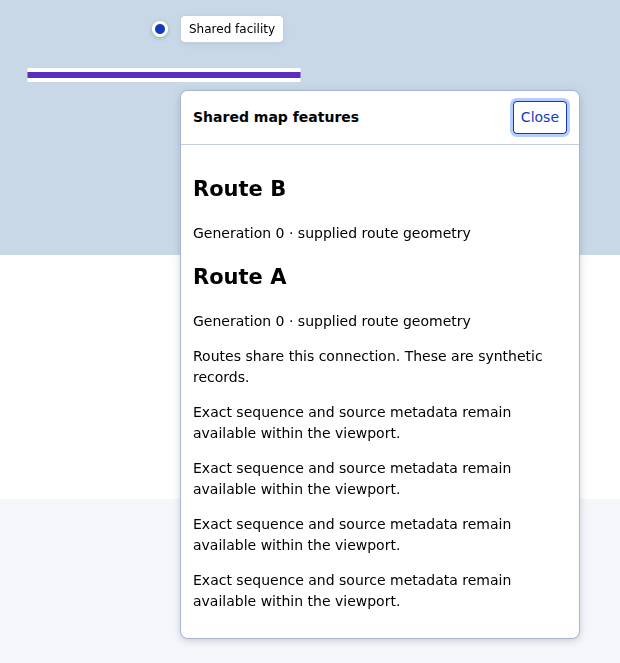
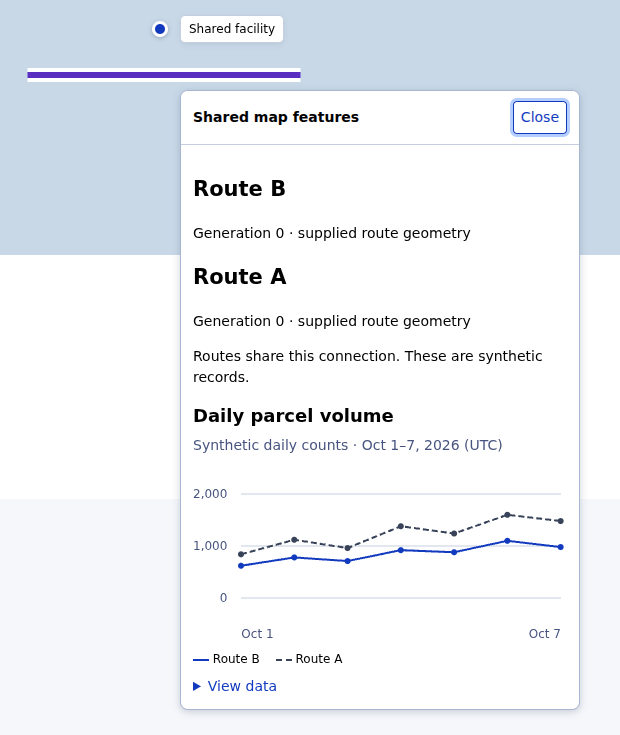
Exercise map inspector spacing with a real parcel-volume chart

diff --git a/scripts/preview-maps/rich-inspection.tsx b/scripts/preview-maps/rich-inspection.tsx
@@ -17,6 +17,17 @@ import { ThemeProvider } from "../../easy-ui-react/src/Theme";
 import { PillButton } from "../../easy-ui-react/src/Pill";
 import { Button } from "../../easy-ui-react/src/Button";
 import { Text } from "../../easy-ui-react/src/Text";
+import { CompactTimeSeries } from "../../easy-ui-react/src/CompactTimeSeries";
+const routeVolumes: Record<string, number[]> = {
+  a: [840, 1120, 960, 1380, 1240, 1600, 1480],
+  b: [620, 780, 710, 920, 880, 1100, 980],
+};
+const formatDate = (time: number) =>
+  new Intl.DateTimeFormat("en-US", {
+    month: "short",
+    day: "numeric",
+    timeZone: "UTC",
+  }).format(time);
 const style: StyleSpecification = {
   version: 8,
   sources: {},
@@ -150,12 +161,28 @@ function Fixture() {
                   <p>
                     Routes share this connection. These are synthetic records.
                   </p>
-                  {Array.from({ length: 4 }, (_, i) => (
-                    <p key={i}>
-                      Exact sequence and source metadata remain available within
-                      the viewport.
-                    </p>
-                  ))}
+                  <CompactTimeSeries
+                    label="Daily parcel volume"
+                    description="Synthetic daily counts · Oct 1–7, 2026 (UTC)"
+                    series={selections.map(({ overlay }) => ({
+                      id: overlay.id,
+                      label: overlay.label ?? overlay.id,
+                      points: (routeVolumes[overlay.id] ?? []).map(
+                        (value, index) => ({
+                          time: Date.UTC(2026, 9, index + 1),
+                          value,
+                        }),
+                      ),
+                    }))}
+                    domain={[0, 2000]}
+                    formatTime={formatDate}
+                    formatValue={(value) =>
+                      `${value.toLocaleString("en-US")} parcels`
+                    }
+                    formatAxisValue={(value) => value.toLocaleString("en-US")}
+                    markers="all"
+                    columnLabels={["Route", "Day (UTC)", "Parcels"]}
+                  />
                 </div>
               )}
             >
